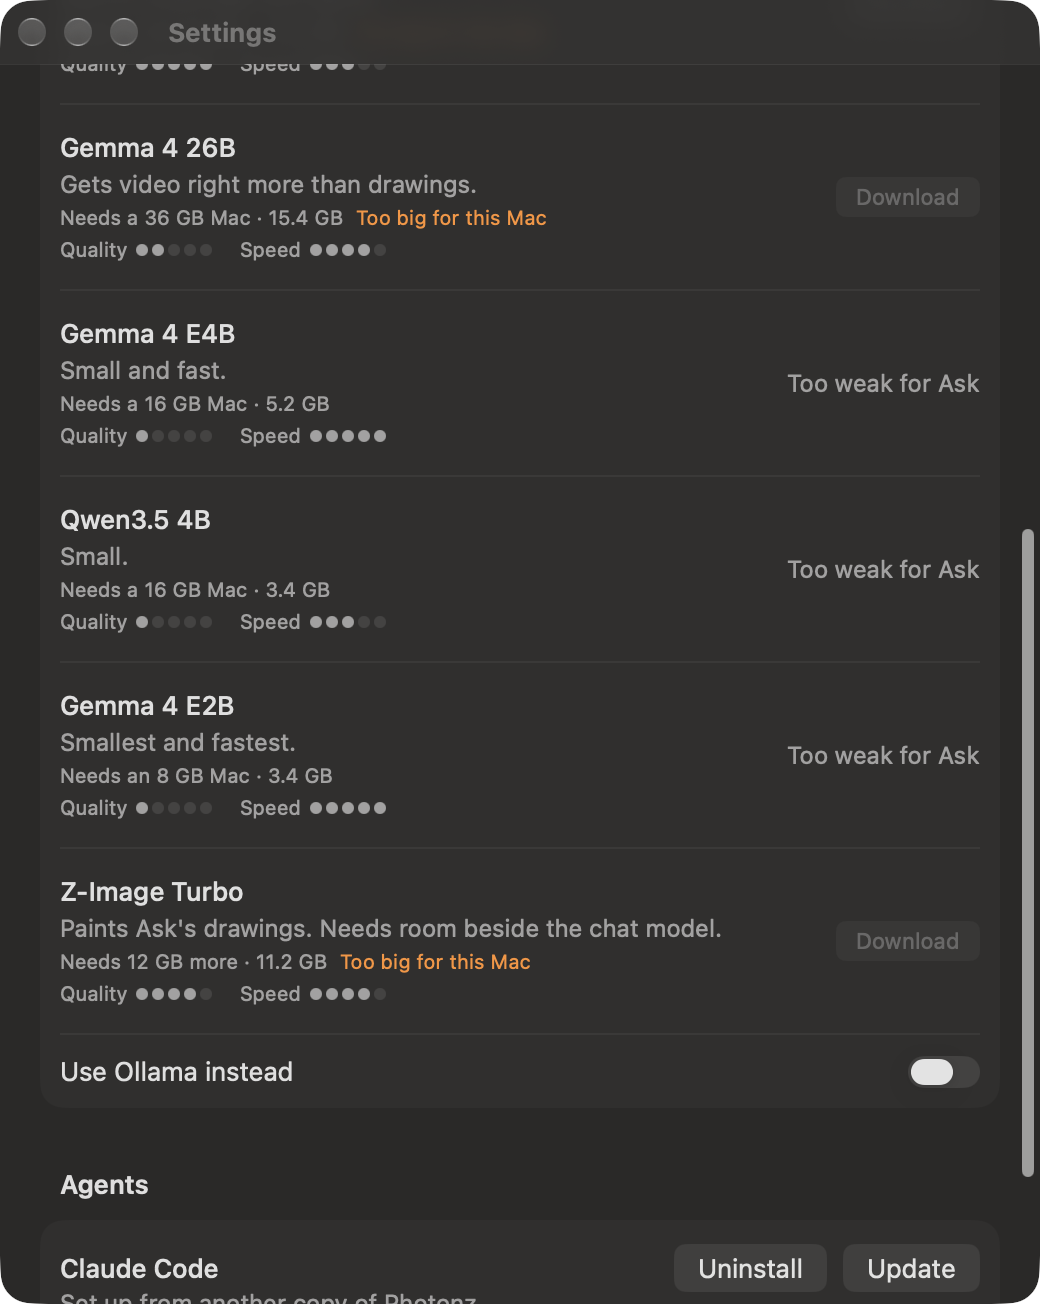
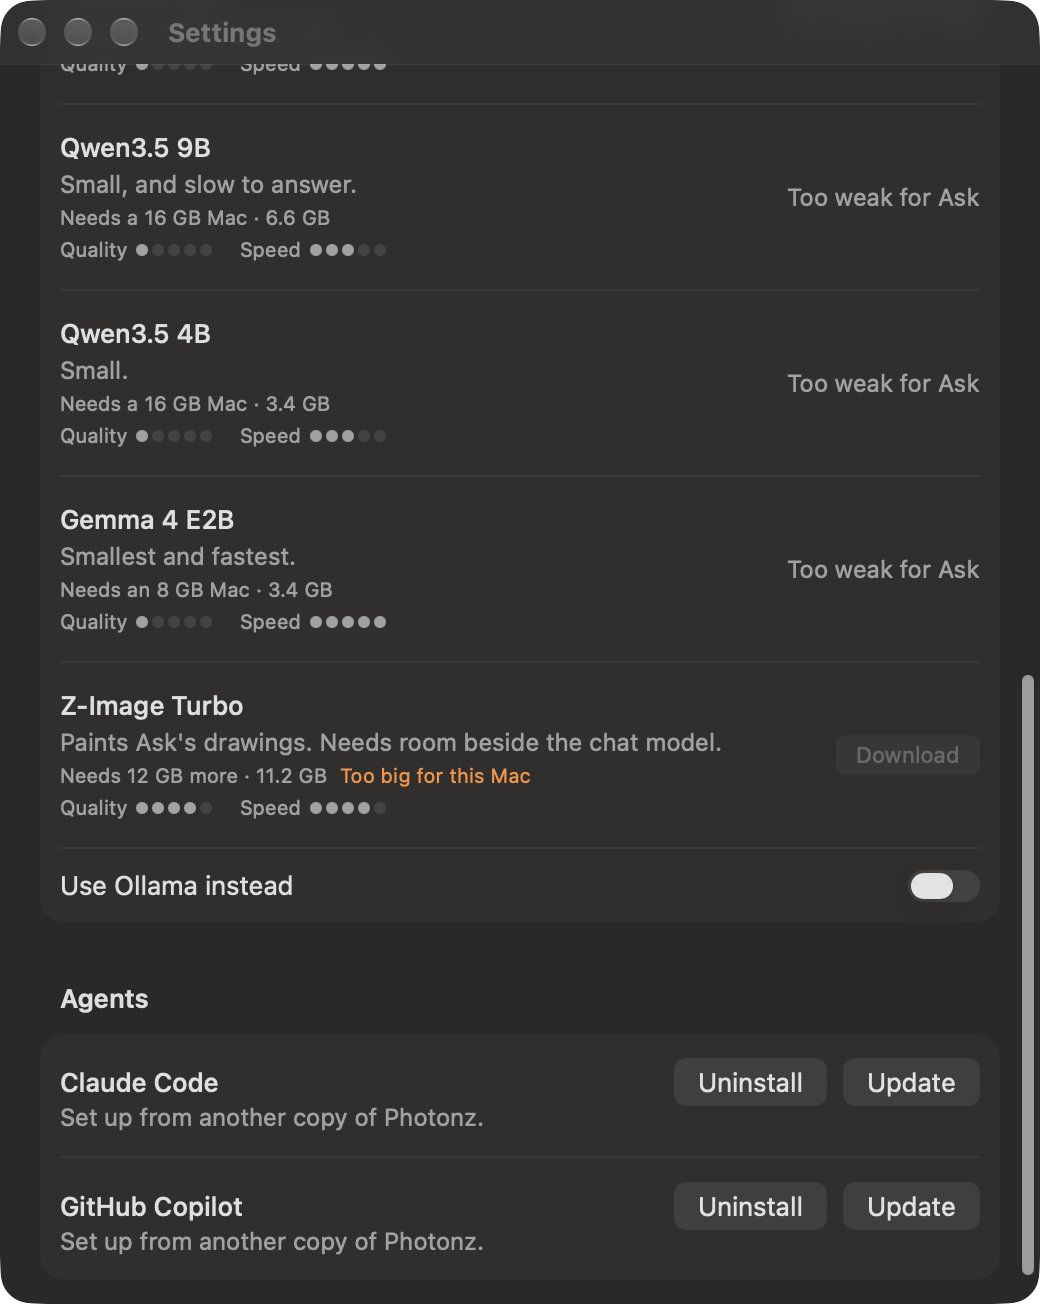
Ask: Qwen3.5 9B measured at 19.8 held-out, listed as too weak for Ask
Its run (20261102-023538-ask-held-out) came in 0.2 under the floor, 75.9 s a
request. Memory is the server's resident size loaded alone at a 32k window,
7.7 GB (8.9 at 64k); the eval read 29.1 during the run, which its 6.6 GB of
files cannot account for.

diff --git a/Sources/PhotonzCore/AskBuiltInModel.swift b/Sources/PhotonzCore/AskBuiltInModel.swift
@@ -166,10 +166,12 @@ public enum AskBuiltInModels {
                            "Qwen3.5-9B-Q4_K_M.gguf", 5_680_522_464, folder: "qwen3.5-9b"),
                eyes: file("unsloth/Qwen3.5-9B-GGUF", "3885219b6810b007914f3a7950a8d1b469d598a5",
                           "mmproj-F16.gguf", 918_166_080, folder: "qwen3.5-9b"),
-               // Offered once its held-out run is in (`20261102-023538-ask-held-out`, under way).
-               gigabytes: 7.5,
-               blurb: "Small, for Macs with 16 GB.",
-               offered: false),
+               // Resident once loaded at the 32k window a 16 GB Mac runs, measured
+               // with the server alone (8.9 at 64k); the eval read 29.1 during
+               // its run, which its files cannot account for.
+               gigabytes: 7.7,
+               blurb: "Small, and slow to answer.",
+               measured: AskModelMeasure(heldOut: 19.8, medianSeconds: 75.9, run: "20261102-023538-ask-held-out")),
         Choice(id: "qwen3.5-4b", name: "Qwen3.5 4B",
                model: file("unsloth/Qwen3.5-4B-GGUF", "e87f176479d0855a907a41277aca2f8ee7a09523",
                            "Qwen3.5-4B-Q4_K_M.gguf", 2_740_937_888, folder: "qwen3.5-4b"),

diff --git a/Tests/PhotonzCoreTests/AskModelCatalogTests.swift b/Tests/PhotonzCoreTests/AskModelCatalogTests.swift
@@ -148,7 +148,7 @@ struct AskModelCatalogTests {
 
     @Test("The small models measured too weak are listed, marked, and never offered")
     func smallOnesAreTooWeak() throws {
-        for id in ["gemma-4-e4b", "gemma-4-e2b", "qwen3.5-4b"] {
+        for id in ["gemma-4-e4b", "gemma-4-e2b", "qwen3.5-4b", "qwen3.5-9b"] {
             let choice = try #require(AskBuiltInModels.choice(id: id))
             #expect(choice.measured?.canDoAsksWork == false, "\(id)")
             #expect(AskModelSetup.listed(downloaded: []).contains(choice))

diff --git a/docs/design/ask.md b/docs/design/ask.md
@@ -592,7 +592,7 @@ Measured on an M4 Max, 64 GB, on the held-out set (45 cases, totals only).
 | Qwen3.8 27B (default) | 57.8 | 4 | 141.9 | 2 | 24.4 | 21.3 GB | 48 GB | | `20261024-163432-ask-held-out` |
 | Qwen3.6 35B | 60.2 | 5 | 49.1 | 3 | 21.7 | 21.0 GB | 36 GB | | `20261024-191502-ask-held-out` |
 | Gemma 4 26B | 20.2 | 2 | 35.5 | 4 | 23.1 | 15.4 GB | 36 GB | 148 of 278 | `20261102-004807-ask-held-out` |
-| Qwen3.5 9B | measuring | | | | | 6.6 GB | | | `20261102-023538-ask-held-out` (not offered until it is in) |
+| Qwen3.5 9B | 19.8, too weak | 1 | 75.9 | 3 | 7.7 (loaded, 32k; the run read 29.1) | 6.6 GB | 16 GB | 32 of 175 | `20261102-023538-ask-held-out` |
 | Qwen3.5 4B | 12.4, too weak | 1 | 57.4 | 3 | 7.8 | 3.4 GB | 16 GB | 49 of 207 | `20261102-012713-ask-held-out` |
 | Gemma 4 E4B | 4.5, too weak | 1 | 13.3 | 5 | 7.3 | 5.2 GB | 16 GB | 74 of 123 | `20261102-002913-ask-held-out` |
 | Gemma 4 E2B | 4.6, too weak | 1 | 15.8 | 5 | 4.2 | 3.4 GB | 8 GB | 27 of 102 | `20261102-001045-ask-held-out` |
